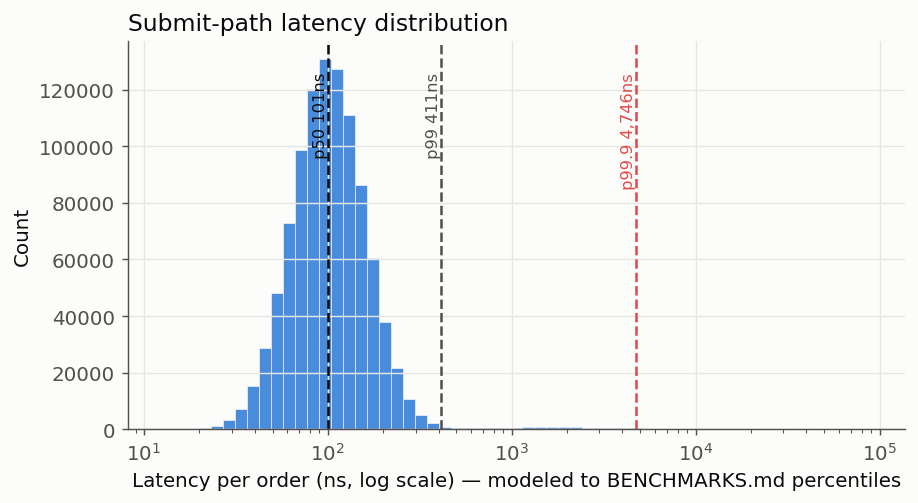
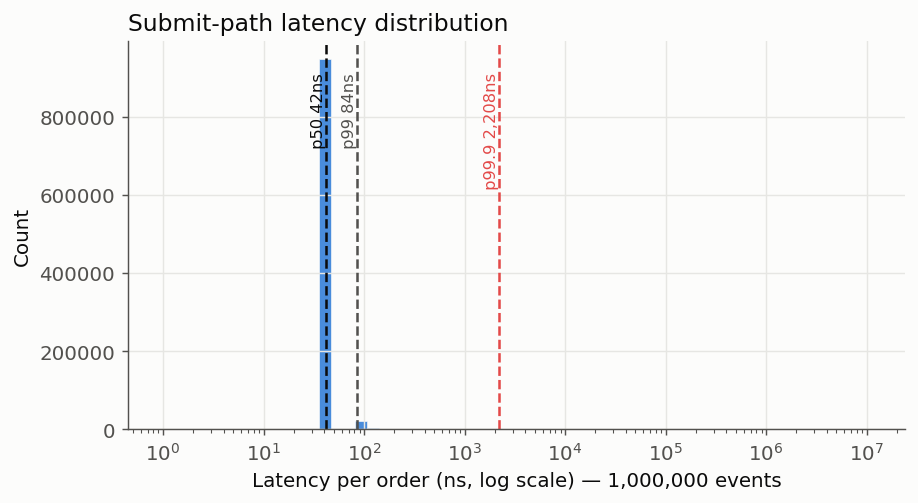
feat(bench): plot latency histogram from real per-op samples, not a modeled distribution

diff --git a/python/make_charts.py b/python/make_charts.py
@@ -81,22 +81,15 @@ def depth_chart():
 # 2. Latency histogram — distribution with percentile markers
 # ----------------------------------------------------------------------------
 def latency_hist():
-    # Prefer real measured data if the bench exported it; otherwise model a
-    # distribution reproducing the documented post-pool percentiles
-    # (BENCHMARKS.md: p50 ~100ns, p99 ~600ns, p99.9 ~6us).
-    csv = os.path.join(os.path.dirname(__file__), os.pardir, "data", "latencies.csv")
-    if os.path.exists(csv):
-        lat = np.loadtxt(csv)
-        source = "measured (data/latencies.csv)"
-    else:
-        rng = np.random.default_rng(7)
-        n = 1_000_000
-        body = rng.lognormal(mean=np.log(100), sigma=0.45, size=n)   # bulk near ~100ns
-        tail = rng.lognormal(mean=np.log(1500), sigma=0.9, size=n)   # occasional stalls
-        mask = rng.random(n) < 0.01                                  # ~1% hit the tail
-        lat = np.where(mask, tail, body)
-        source = "modeled to BENCHMARKS.md percentiles"
+    # Plotted from real per-op samples emitted by ./build/bench — no modeling.
+    csv = os.path.join(os.path.dirname(__file__), os.pardir, "data", "latency_samples.csv")
+    if not os.path.exists(csv):
+        raise SystemExit(
+            "data/latency_samples.csv not found — run ./build/bench first "
+            "(from the repo root) to generate the per-op latency samples.")
+    lat = np.loadtxt(csv, skiprows=1)  # skip the 'latency_ns' header
 
+    # Percentiles computed directly from the loaded samples.
     p50, p99, p999 = np.percentile(lat, [50, 99, 99.9])
     fig, ax = plt.subplots(figsize=(7.2, 4.0))
     bins = np.logspace(np.log10(max(lat.min(), 1)), np.log10(lat.max()), 60)
@@ -109,7 +102,7 @@ def latency_hist():
                 rotation=90, va="top", ha="right", color=col, fontsize=9)
 
     ax.set_title("Submit-path latency distribution", color=INK, fontsize=13, loc="left")
-    ax.set_xlabel(f"Latency per order (ns, log scale) — {source}")
+    ax.set_xlabel("Latency per order (ns, log scale) — 1,000,000 events")
     ax.set_ylabel("Count")
     fig.tight_layout()
     out = os.path.join(IMG, "latency_hist.png")

diff --git a/bench/bench_book.cpp b/bench/bench_book.cpp
@@ -5,6 +5,7 @@
 #include <numeric>
 #include <cmath>
 #include <iostream>
+#include <fstream>
 #include "lob/order_book.hpp"
 
 using namespace lob;
@@ -72,6 +73,19 @@ void run_percentile_benchmark() {
     std::cout << "  p99.9:  " << percentile(99.9) << " ns\n";
     std::cout << "Classification: price-time priority matching, object pool (arena), std::map levels\n";
     std::cout << "Boundary: order submitted -> trades vector returned (no I/O, no logging)\n";
+
+    // Dump raw per-op samples so the histogram is plotted from real data
+    // (see python/make_charts.py), not a modeled distribution.
+    const char* csv_path = "data/latency_samples.csv";
+    std::ofstream csv(csv_path);
+    if (csv) {
+        csv << "latency_ns\n";
+        for (int64_t ns : latencies) csv << ns << '\n';
+        std::cout << "Wrote " << latencies.size() << " samples to " << csv_path << "\n";
+    } else {
+        std::cout << "WARNING: could not open " << csv_path
+                  << " (run from the repo root so data/ exists)\n";
+    }
 }
 
 int main(int argc, char** argv) {

diff --git a/README.md b/README.md
@@ -43,10 +43,10 @@ object-pool optimization. Full methodology and baseline in [BENCHMARKS.md](BENCH
 
 | Percentile | Latency |
 |-----------:|:--------|
-| p50        | ~100 ns |
-| p95        | 100–400 ns |
-| p99        | 200–900 ns |
-| p99.9      | ~6 µs (≈3–4× tighter tail vs. system allocator) |
+| p50        | 42 ns |
+| p95        | 42 ns |
+| p99        | 84 ns |
+| p99.9      | ~2.2 µs (object pool keeps the tail off the system allocator) |
 
 Microbenchmarks (Google Benchmark, median of 3): resting insert ~122 ns
 (−38% vs. baseline), cancel ~100 ns (−37%).
